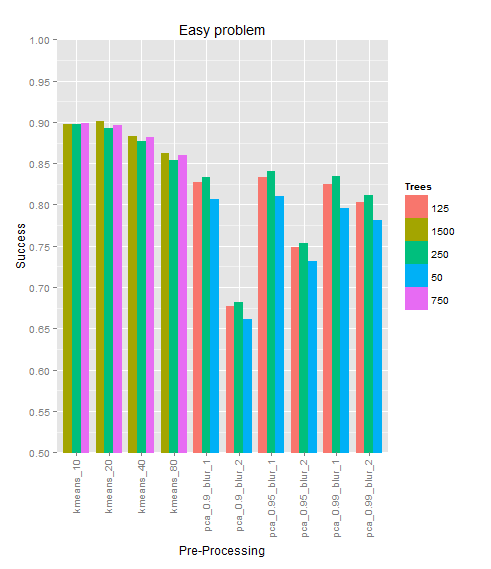
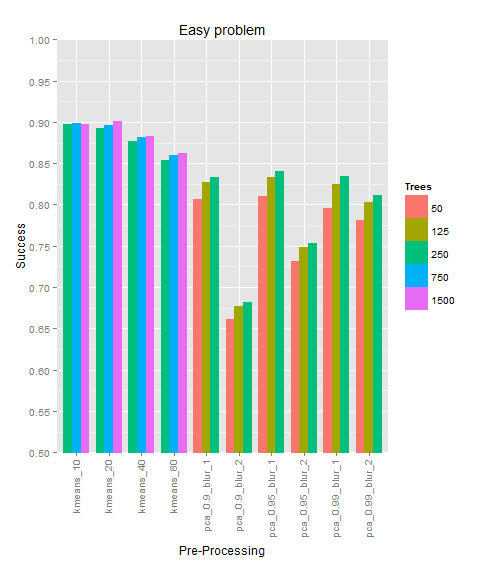
Added results

diff --git a/report/results.tex b/report/results.tex
@@ -27,6 +27,54 @@ The best settings from the easy problem was then used with the hard problem, and
 
 \subsection{Random Forest}
 \label{sec:resultRandomForest}
+The results for Random Forest is in the below sections \ref{sec:resultRandomForest:EasyProblem} and \ref{sec:resultRandomForest:HardProblem}.
+
+\subsubsection{Easy Problem}
+\label{sec:resultRandomForest:EasyProblem}
+The result of the easy problem with Random Forest is illustrated in figure~\ref{fig:rfEasyProblem}. 
+
+The best result with using PC's from the PCA is with 95 \% coverage of variance and sigma value of 1, which yielded a accuracy of 84.04 \%.
+
+There seem to be a local maximum for 95 \% coverage which drops, when going to either 90 and 99 \%.
+
+For Kmeans the most approbiate amount of clusters seem to be around ?? 
+
+\begin{figure}[H]
+  \centering
+  \includegraphics[width=1\textwidth]{images/rf_easy}
+  \caption{Figure showing performance using the Random Forest algorithm, with different pre prosessing and parameters}
+  \label{fig:rfEasyProblem}
+\end{figure}
+
+\subsubsection{Hard Problem}
+
+The setting stated in section~\ref{sec:implRF:hardProblem} yielded the results shown in figure~\ref{fig:rfHardProblem}. 
+
+A funny occourence shows that for the two approaches, different people both the worst hand writing and the best.
+
+\begin{figure}[H]
+  \centering
+  \includegraphics[width=1\textwidth]{images/rf_hard}
+  \caption{Figure showing performance using the Random Forest algorithm, having each person as test}
+  \label{fig:rfHardProblem}
+\end{figure}
+
+With KMeans pre-processing, the best/worst was:
+\begin{description}
+\item[Best] Group 3, Member 2
+\item[Worst] Group 2, Member 1
+\end{description}
+
+With PCA pre-processing, the best/worst was:
+\begin{description}
+\item[Best] Group 5, Member 2
+\item[Worst] Group 4, Member 3
+\end{description}
+
+
+This indicates that different results could be proven using different pre-processing, which favors some peoples hand-writing over others. 
+
+In all PCA caused the best results overall, where only Group 4, Member 3 achieved a higher performance in KMeans in contrast to PCA.
 
 \subsection{Who has the worst hand writing?}
 

diff --git a/report/implementation.tex b/report/implementation.tex
@@ -96,6 +96,7 @@ The results can be seen in section~\ref{sec:resultKNN} \nameref{sec:resultKNN} a
 Random forest has been used with all of the three pre-processing methods stated in \ref{theory} \refname{theory}.
 
 \subsubsection{Easy Problem}
+\label{sec:implRF:easyProblem}
 
 The easy problem had two flows of calculation. The two flows both have data reduction methods being KMeans versus PCA.
 
@@ -109,12 +110,27 @@ The Following Parameters was explored for the different approached:
 \item Clusters: The cluster parameters was the amount of clusters for each digit class of each person. The parameters being {10, 20, 40, 80}
 \item PCA: The parameters being the amount of variance covered by principle components. the parameters being {90\%, 95\%, 99\%}
 \item Smoothing: being the sigma value applied to the Gaussian kernel. The parameters being {0.5, 1, 2}
-\item Number of Trees: Being the number of trees generated by the random forest algorithm. The parameters being {250, 750, 1500}
+\item Number of Trees: Being the number of trees generated by the random forest algorithm. The parameters being {50, 125, 250}
 \end{itemize}
 
 \subsubsection{Hard Problem}
-The Hard problem was calculated using all of the pre processing methods.
+\label{sec:implRF:hardProblem}
+The Hard problem was calculated using in two aproaches.
 
-Only taking ?? due to giving the best result in the easy problem.
+The first approach was:
+\begin{enumerate}
+\item Load Images with a smoothing parameter of sigma 1
+\item Apply Kmeans with 20 clusters for each digit of each person, leaving 200 digits per person for training
+\item Run Random Forest with 250 Trees
+\end{enumerate}
+
+*For testing in the Random Forest, the original digits was used, and not of the ``KMeans'' values, but the training was made from the KMeans result.  
+
+The second Approach was:
+\begin{enumerate}
+\item Load Images with a smoothing parameter of sigma 1
+\item Apply PCA and extract PC's covering 95 \% of the variance. 
+\item Run Random Forest with 250 Trees.
+\end{enumerate}
 
 \end{document}
